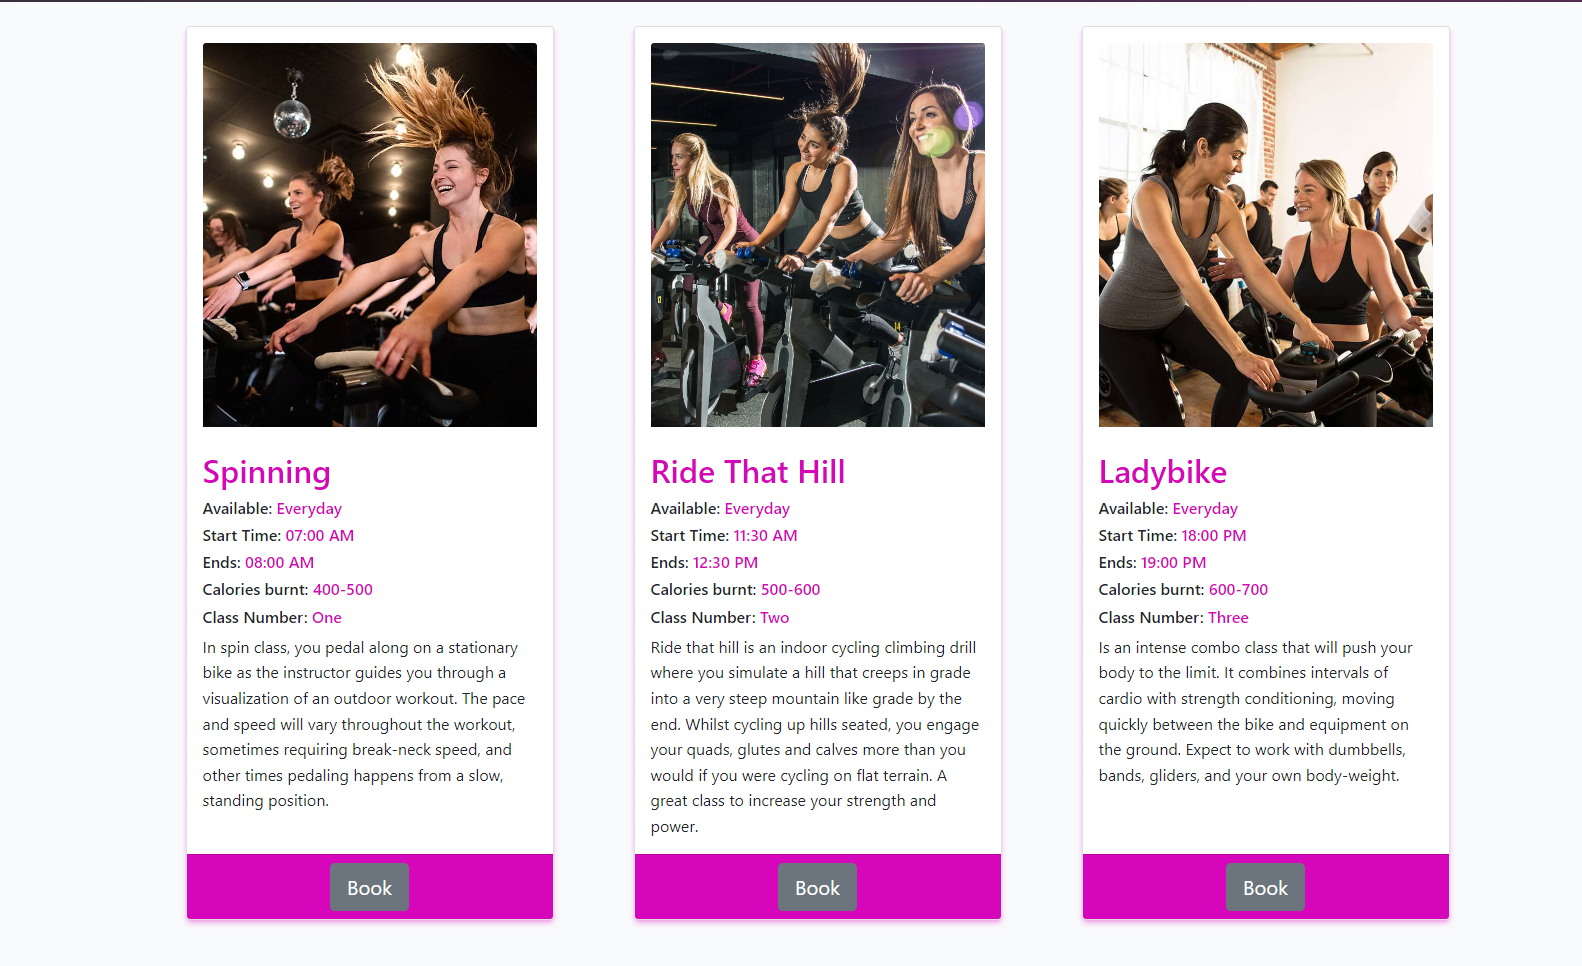
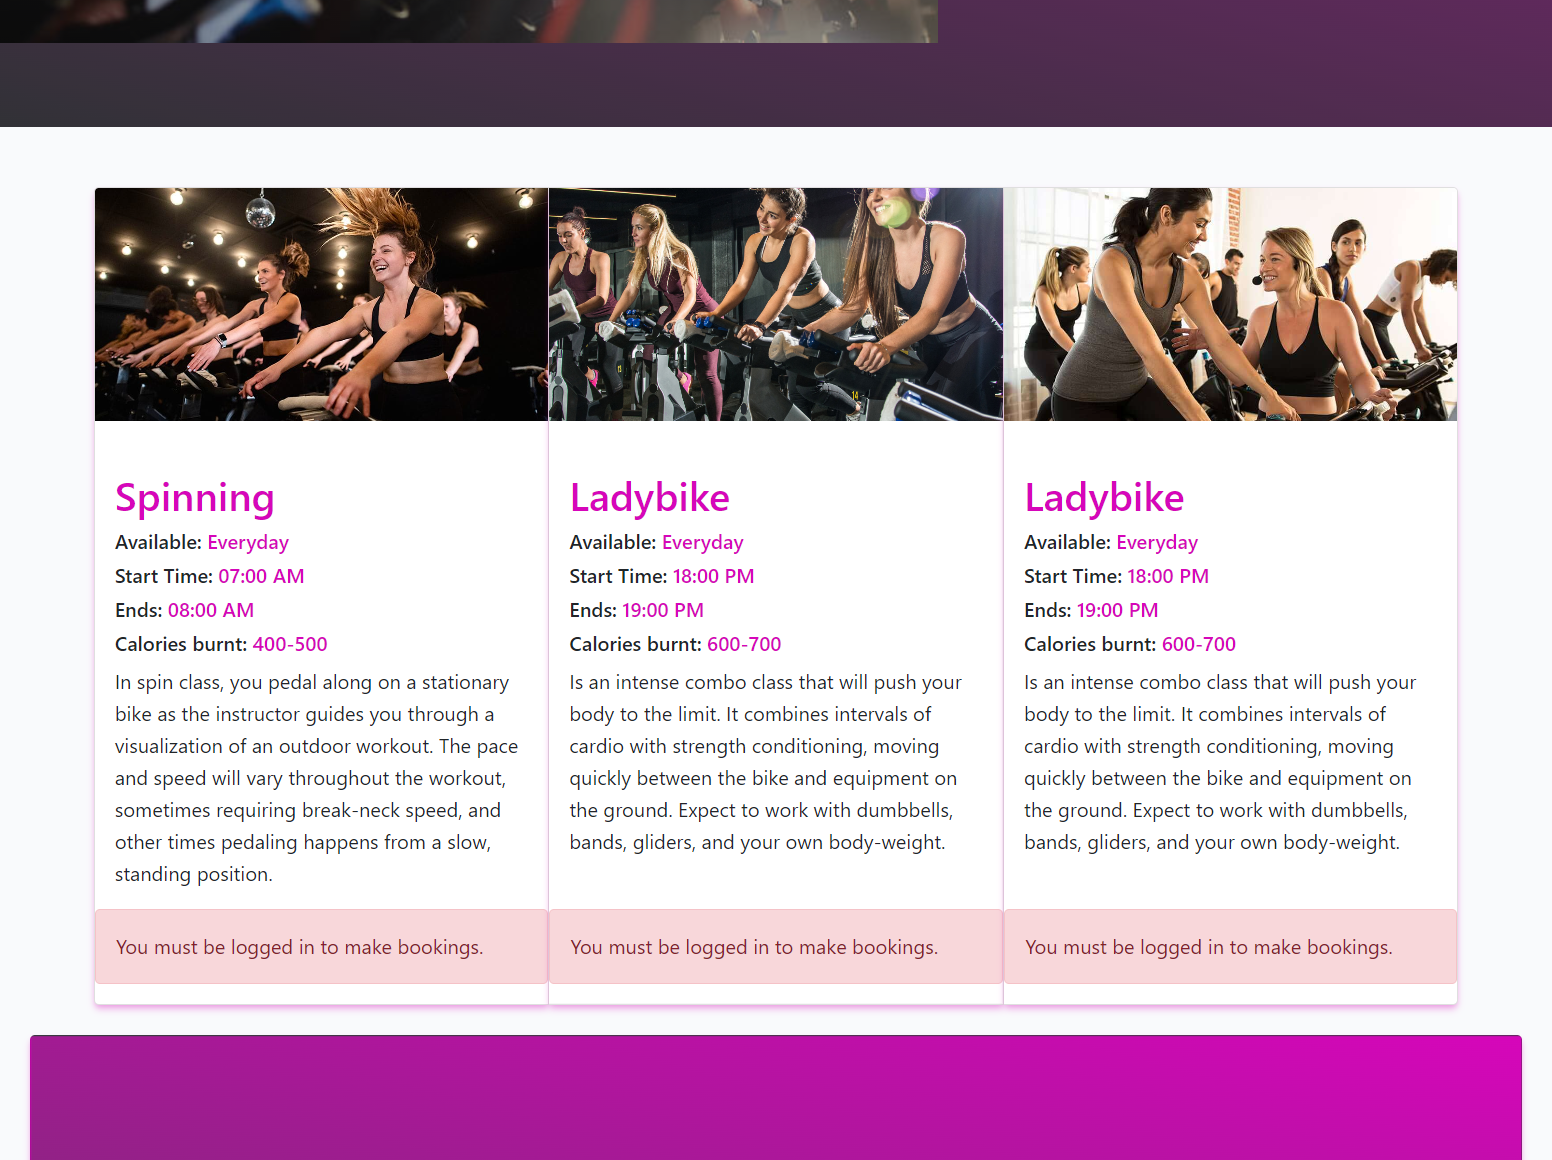
Replaced images on Features section after the minor  design changes on the pages on the Readme file

diff --git a/README.md b/README.md
@@ -4,7 +4,7 @@
 
 [Live application can be found here](https://ladybike.herokuapp.com/home)
 
-This full-stack framework project was built using Django, Python, HTML, CSS and JavaScript. This is a cycling booking website designed to display cycling classes to customers and allow them to make/edit/delete bookings. This project has been built for educational purposes.
+This full-stack framework project was built using Django, PostgreSQL, Python, HTML, CSS and JavaScript. This is a cycling booking website designed to display cycling classes to customers and allow them to make/edit/delete bookings. The website also provides a list of articles users can choose to read from and can like if logged in. This project has been built for educational purposes.
 
 ---
 
@@ -138,7 +138,11 @@ The fonts chosen for this project are 'Lora' & 'SansSerif', beautifully clean an
 
 If the user is logged in, then the right side of the menu shows links for pages that only authorised users can visit & use; they are: 'Manage Reservations' & 'Logout'. Otherwise, the user will be given the option to 'Register' or 'Login'. This change in the menu ensures users are directed to pages they can use, preventing any frustration and prompting them to sign up for an account. Furthermore, it makes it abundantly clear what the logged-in status is to the user.
 
+Also, if the user is logged in, the CTA on the header of the front page is linked to the booking page.  Otherwise, the CTA is linking the unlogged user to the classes page
+
 ![](README_docs/Features/navbarBig.png)
+
+![](README_docs/Features/navBarNot.png)
 
 The navigation bar is fully responsive and collapses on mobile screens to a hamburger icon, this easily allows the user to continue to use the navigation links without the need to press back on the browser. 
 
@@ -147,7 +151,7 @@ The navigation bar is fully responsive and collapses on mobile screens to a hamb
 
 **Home**: The user gets the information on the home page to understand that this is a cycling booking platform only for women. Then the trainers' profile is followed to provide a professional background. The front page aims to create a welcoming atmosphere for the user and a clear message to the target audience. Also a link to book a class is provided on the header of the page.
 
-![](README_docs/Features/home.png)
+![](README_docs/Features/Home.png)
 
 ![](README_docs/Features/home2.png)
 
@@ -162,14 +166,20 @@ The navigation bar is fully responsive and collapses on mobile screens to a hamb
 
 ![](README_docs/Features/articles.png)
 
-![](README_docs/Features/likepost.png)
+![](README_docs/Features/article_like.png)
 
 ### Classes
-**Our Classes**: On the 'Our Classes' page, the user can learn more about each class and click on the call to action 'Book' to link to the booking system and book the class they want.
+**Our Classes**: On the 'Our Classes' page, the user can learn more about each class and click on the call to action 'Book' to link to the booking system and book the class they want if they are logged in. If the user is not logged in, an alert message will be shown reminding them that they must log in to make a booking.
 
 ![](README_docs/Features/ourclasses.png)
 
+If user is not logged in
+
 ![](README_docs/Features/classes.png)
+
+If user is logged in
+
+![](README_docs/Features/classesloggedin.png)
 
 The user can also look at Ladybike's address and contact info for customer support.
 
@@ -186,7 +196,7 @@ In order to make a booking, the user must either register or log in.
 
 ![](README_docs/Features/booking.png)
 
-Alos, noteworthy to mention that the user can logout whnenever they want.
+Also, noteworthy to mention that the user can logout whnenever they want.
 
 ![](README_docs/Features/signout.png)
 
@@ -195,15 +205,17 @@ Alos, noteworthy to mention that the user can logout whnenever they want.
 
 The booking ID is displayed at the top of the booking item so they can be easily identified.
 
-There are also edit & delete buttons; users can edit or delete existing bookings they have created that are either 'approved' or 'pending'. 
+There are also edit & delete buttons; users can edit or delete existing bookings they have created. 
 
 ![](README_docs/Features/manage_booking.png)
 
-Bookings with a date in the past would not be displayed, so the user would not be able to edit or delete them, which could confuse the user and the admin user. Reservations with a 'rejected' status can also not be changed for the same reasons. 
+Bookings with a date in the past would not be displayed, so the user would not be able to edit or delete them, which could confuse the user and the admin user.
 
 **Edit Booking**: This page displays the booking form pre-populated using the booking instance; the user can change the class and the date in the form. After resubmitting, the user is redirected to the 'Manage booking' page, and a success message is displayed showing which booking was edited. 
 
 ![](README_docs/Features/edit_booking.png)
+
+![](README_docs/Features/bookingupdated.png)
 
 **Delete Booking**: This page displays the booking selected with all of its information, the user presses 'Cancel Booking', and a modal pop is up for the user to confirm the cancellation, explaining that this cannot be undone. If the user chooses 'Cancel', the booking will be deleted from the model. After confirming, the user is redirected to the 'Manage Bookings' page, and a success message shows which reservation was edited.
 
@@ -296,7 +308,7 @@ To generate your own coverage report from the command line:
 
 A problem occurred when a change was created in the Booking Models.
 
-(README_docs/Bugs/DatabaseIssue/bugdatabase.png)
+![](README_docs/Bugs/DatabaseIssue/bugdatabase.png)
 
 The first step was to run the following:
 - `python3 manage.py makemigrations --dry-run`
@@ -306,21 +318,21 @@ The first step was to run the following:
 
 But that did not solve the issue:
 
-(README_docs/Bugs/DatabaseIssue/migration.png)
+![](README_docs/Bugs/DatabaseIssue/migration.png)
 
 Then I tried to add 1 instead of True on the seats default session, but it did not help solve the issue. Thus a clean state needed to be craeted to rerun the commands. The steps followed were:
 1. Remove all migrations files within the project. Go through Articles and Booking migration folders and remove everything inside, except the __init__.py file, whis it is essential **not** to remove this.
 2. Go to the Heroku app dashboard and find Resources, then click Heroku PostGres:
 
-(README_docs/Bugs/DatabaseIssue/herokupostgress.png)
+![](README_docs/Bugs/DatabaseIssue/herokupostgress.png)
 
 3. Then in data.heroku, go to Settings
 
-(README_docs/Bugs/DatabaseIssue/herokudata.png)
+![](README_docs/Bugs/DatabaseIssue/herokudata.png)
 
 4. Click on Reset Database, type the app name, namely Ladybike in the prompted box and press Reset Database
 
-(README_docs/Bugs/DatabaseIssue/resetdatabase.png)
+![](README_docs/Bugs/DatabaseIssue/resetdatabase.png)
 
 5. After resetting, if there is a new DATABASE_URL, it should be in the Heroku config vars, copy paste that and paste it into the env.py file.
 6. When that is done, run migrations to create the tables on the database
@@ -340,7 +352,7 @@ Which worked to solve the issue.
 
 When running pytho3 manage.py runserver, this error popped up.
 
-(README_docs/Bugs/Credentials/credentials.png)
+![](README_docs/Bugs/Credentials/credentials.png)
 
 The error occurred because the credentials for Ladybike's Heroku database have been rotated. This happens when Heroku performs database maintenance on their servers. The DATABASE_URL var in the Heroku app config vars will update automatically with the new Postgres URI, but you'll need to update your env.py file locally. Thus, the env.py file was updated with the new Postgress URI, and the error disappeared.
 
@@ -348,7 +360,7 @@ The error occurred because the credentials for Ladybike's Heroku database have b
 
 When testing to register, no action occurred. Namely, the user did not log in. It was just redirecting the user to the login page. Then, looking closer at the terminal, the result was that the user was registered through the Social account, which was decided not to be implemented in the application. Yet, it was mentioned on the Registration HTML file (signup.html).
 
-(README_docs/Bugs/Signup/registration.png)
+![](README_docs/Bugs/Signup/registration.png)
 
 Thus, the solution was the replacement from socialaccount_signup to account_signup; namely:
 `<form role="form" class="signup" id="signup_form" method="post" action="{% url 'account_signup' %}">`
@@ -363,7 +375,7 @@ instead of
 
 When Testing Manage Bookings, the user could not see anything even though they had made a booking. The problem with this issue occurred because the booking was printed instead of returned on the Booking Views file.
 
-(README_docs/Bugs/ManageBooking/printbooking.png)
+![](README_docs/Bugs/ManageBooking/printbooking.png)
 
 Namely it should be `return get_booking`
 
@@ -371,7 +383,7 @@ Namely it should be `return get_booking`
 
 The 'Our Classes' page was not responsive on smaller devices with regards to the initial card Bootstrap setting of each class:
 
-(README_docs/Bugs/Cards/bugwithcards.png)
+![](README_docs/Bugs/Cards/bugwithcards.png)
 
 Thus a group-card class was chosen instead, so the cards are aligned and mobile-friendly.
 
@@ -380,8 +392,13 @@ Thus a group-card class was chosen instead, so the cards are aligned and mobile-
 
 Google Maps was featured under the contact information of Ladybike at the end of the 'Our Classes' page but did not respond on smaller screens even though a JS code was implemented. Also, a CSS code was tested, but neither one worked. Thus, Google Maps was removed from the page.
 
-(README_docs/Bugs/Googlemaps/maps.png)
+![](README_docs/Bugs/Googlemaps/maps.png)
 
+**_Class name do not appear on Manage Bookings Page_**
+
+The class name does not appear on the Manage Bookings page even though it is called on the manage_booking.html file the same way it is on the edit_booking.html and delete_booking.html files. A scan on the Bookings views.py and the manage_booking.html files occurred with no luck in debugging this issue.
+
+![](README_docs/Bugs/Classname/classbug.png)
 
 
 ---
